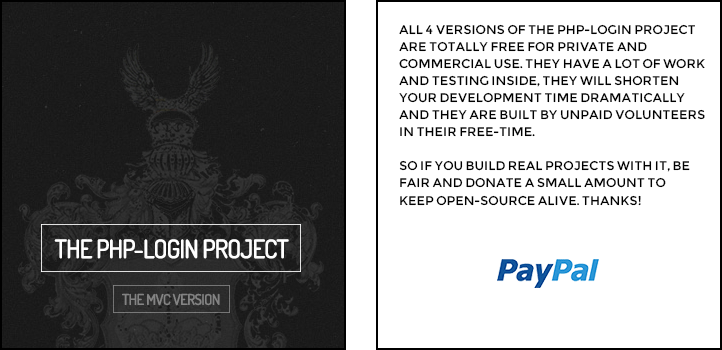
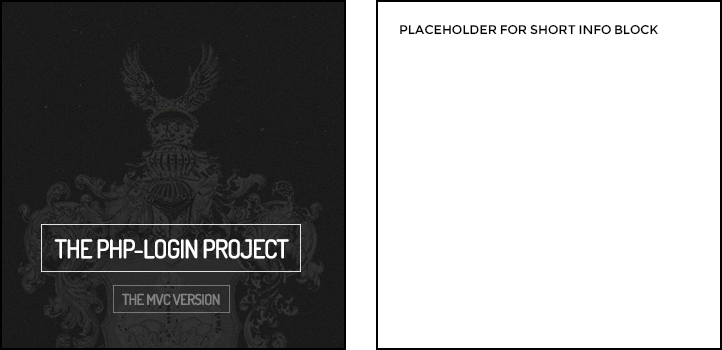
(test) new header image

Changed region(s): [[0.5485, 0.0571, 0.9751, 0.4], [0.5485, 0.4571, 0.9751, 0.6], [0.6704, 0.7429, 0.8532, 0.8286]]

diff --git a/README.md b/README.md
@@ -1,4 +1,6 @@
-[![php-login introduction & quickstart placeholder picture](_tutorial/placeholder.png)](https://www.paypal.com/cgi-bin/webscr?cmd=_s-xclick&hosted_button_id=P5YLUK4MW3LDG)
+[![php-login introduction & quickstart placeholder picture](_tutorial/placeholder.png)](http://www.php-login.net)
+
+[![Donate with PayPal banner](_tutorial/donate-with-paypal.png)](https://www.paypal.com/cgi-bin/webscr?cmd=_s-xclick&hosted_button_id=P5YLUK4MW3LDG)
 
 # php-login
 
